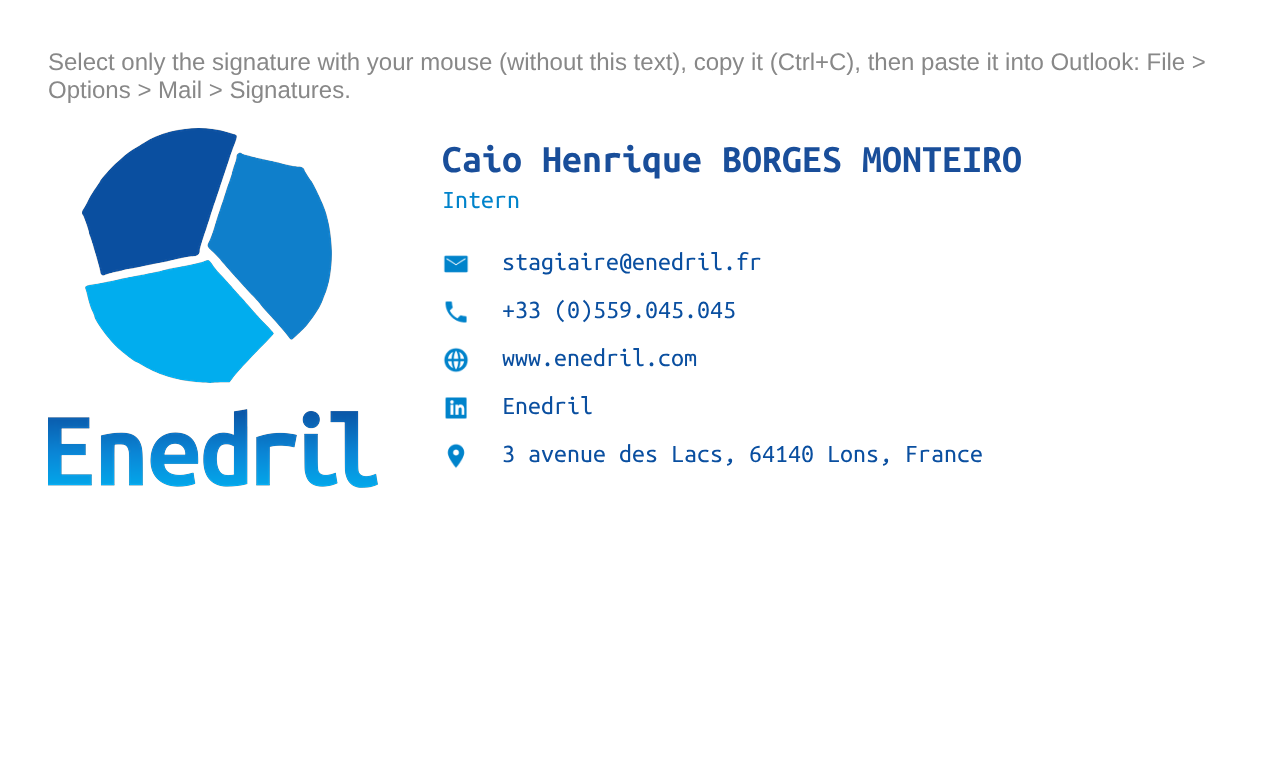
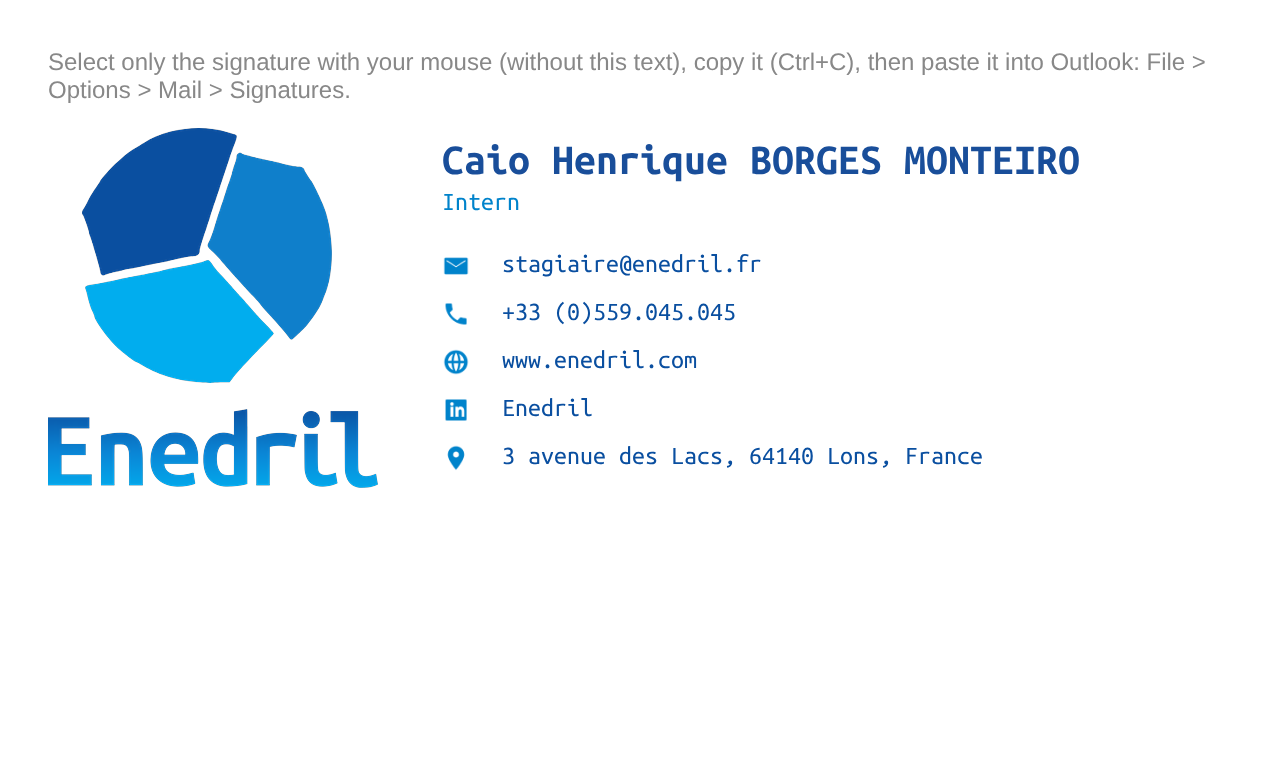
Signature stagiaire: nom en 22 px comme la signature de Paul
Claude-Session: https://claude.ai/code/session_01XPwnZBmWUGhvYebrP3X3Z2

diff --git a/signature_mail/Signature_mail_Caio_Henrique_Borges_Monteiro_EN.html b/signature_mail/Signature_mail_Caio_Henrique_Borges_Monteiro_EN.html
@@ -3,7 +3,7 @@
 <tr>
[1 lines of base64/hex data omitted]
 <td valign="middle" style="padding:0 0 0 6px;">
-<div style="font-family:'Ubuntu Mono','Courier New',Courier,monospace;font-size:20px;line-height:24px;font-weight:bold;color:#194E9A;">Caio Henrique BORGES MONTEIRO</div>
+<div style="font-family:'Ubuntu Mono','Courier New',Courier,monospace;font-size:22px;line-height:26px;font-weight:bold;color:#194E9A;">Caio Henrique BORGES MONTEIRO</div>
 <div style="font-family:'Ubuntu Mono','Courier New',Courier,monospace;font-size:13px;line-height:18px;color:#0083CB;padding-bottom:10px;">Intern</div>
 <table cellpadding="0" cellspacing="0" border="0" style="border-collapse:collapse;">
[1 lines of base64/hex data omitted]
